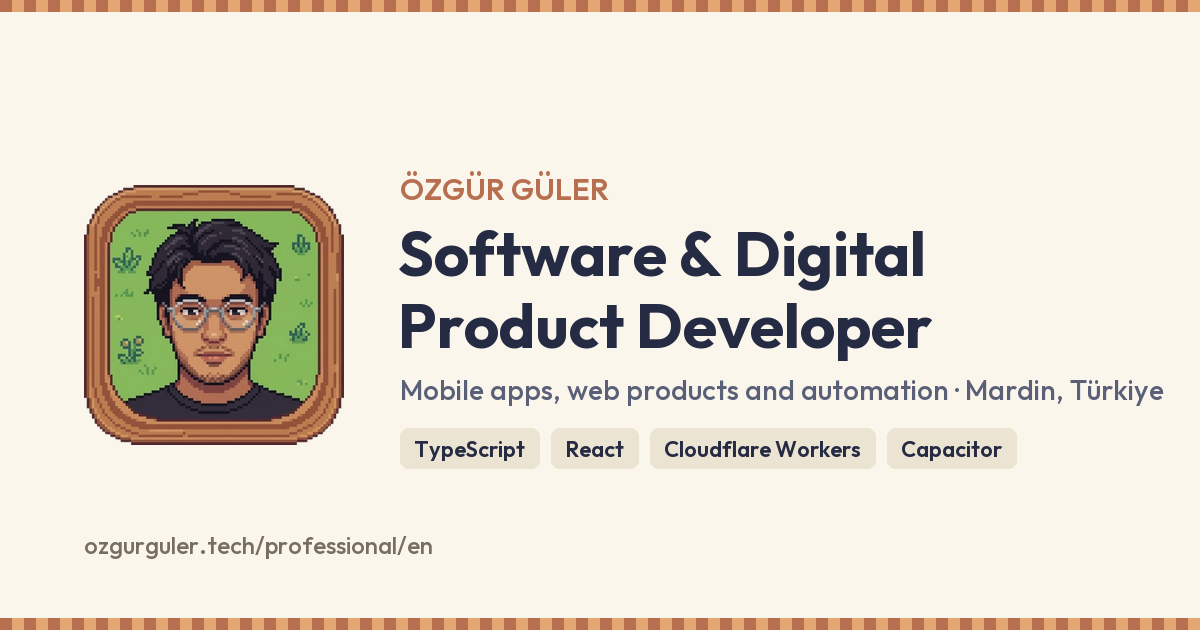
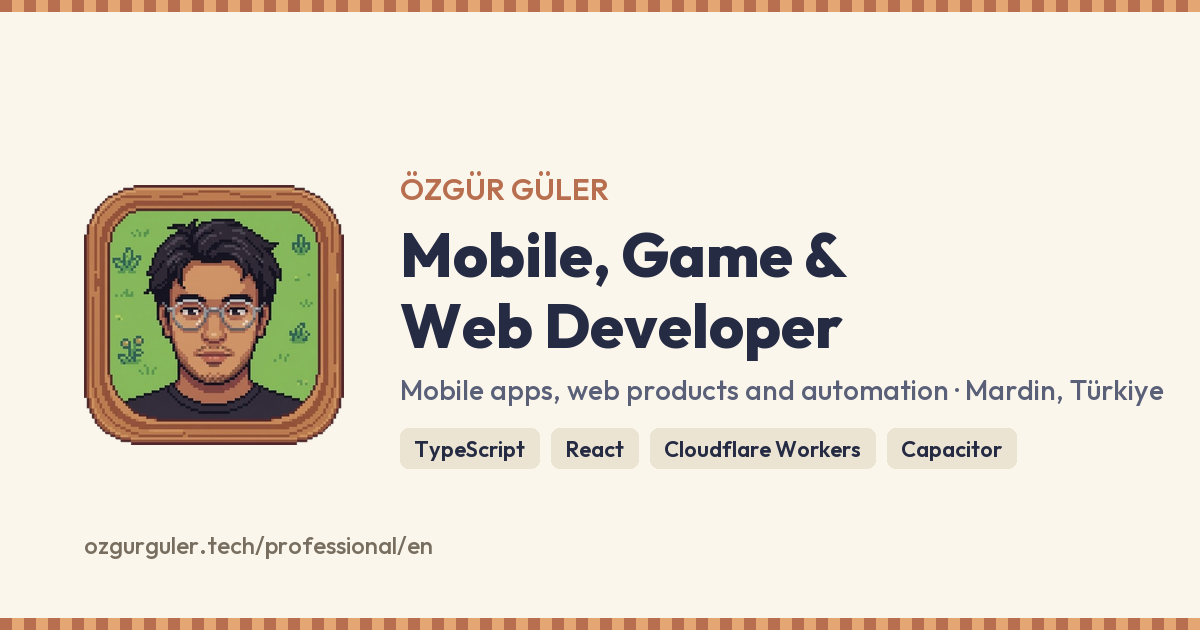
Unvan: Mobil, Oyun ve Web Geliştirici
"Yazılım & Dijital Ürün Geliştirici" geniş ama bulanıktı; yeni unvan iki
gerçek ayağı da adıyla söylüyor ve ikisinin de arkasında yayında iş var.
Yapay zekâ ve sosyal medya bilerek dışarıda: ilki API kullanımı, ikincisi
yazılımcı unvanını sulandırıyor; ikisi de gövdede kendi bölümlerinde duruyor.

Unvan tek yerden (PROFILE.role) geldiği için kahraman satırı, sekme başlığı,
JSON-LD jobTitle ve paylaşım görseli alt metni birlikte değişti. Paylaşım
görsellerindeki yazı da yeniden çizildi; bunu yapan betik scripts/og_title.py
olarak eklendi (sitenin kendi Outfit dosyasını kullanıyor).

Özet cümlelerine "oyun" eklendi: Dönerci bir oyun ama hiçbirinde geçmiyordu.

Changed region(s): [[0.3083, 0.3619, 0.7708, 0.573]]

diff --git a/professional/data.ts b/professional/data.ts
@@ -40,15 +40,15 @@ export const PROFILE = {
     linkedin: 'https://www.linkedin.com/in/%C3%B6zg%C3%BCr-g-133a33219/',
     x: 'https://x.com/ozguramdin',
   },
-  role: { tr: 'Yazılım & Dijital Ürün Geliştirici', en: 'Software & Digital Product Developer' } as L,
+  role: { tr: 'Mobil, Oyun ve Web Geliştirici', en: 'Mobile, Game & Web Developer' } as L,
   location: { tr: 'Mardin', en: 'Mardin, Türkiye' } as L,
   intro: {
     tr: [
-      'Mobil uygulama, web ürünü ve otomasyon geliştiriyorum. Coğrafist, Dönerci ve Print Fast App Store ile Google Play’de; WTF Yapay Zekâ’nın Android uygulaması 50.000’den fazla indirildi.',
+      'Mobil uygulama, oyun, web ürünü ve otomasyon geliştiriyorum. Coğrafist, Dönerci ve Print Fast App Store ile Google Play’de; WTF Yapay Zekâ’nın Android uygulaması 50.000’den fazla indirildi.',
       'Bu projelerin çoğunda tek geliştiriciyim. Arayüz, backend, ödeme entegrasyonu ve mağaza yayını bende.',
     ],
     en: [
-      'I build mobile apps, web products and automations. Coğrafist, Dönerci and Print Fast are on the App Store and Google Play, and the WTF Yapay Zekâ Android app has passed 50,000 downloads.',
+      'I build mobile apps, games, web products and automations. Coğrafist, Dönerci and Print Fast are on the App Store and Google Play, and the WTF Yapay Zekâ Android app has passed 50,000 downloads.',
       'On most of these I’m the only developer, so the interface, backend, payments and store releases are all mine.',
     ],
   } as Record<Lang, string[]>,
@@ -643,8 +643,8 @@ export const metaFor = (lang: Lang, slug: string | null): PageMeta => {
     title: `Özgür Güler | ${PROFILE.role[lang]}`,
     description:
       lang === 'en'
-        ? 'Mobile apps, web products and automations. Three apps on the App Store and Google Play, services running on Cloudflare Workers, and open-source projects.'
-        : 'Mobil uygulama, web ürünü ve otomasyon. App Store ve Google Play’de üç uygulama, Cloudflare Workers üzerinde çalışan servisler ve açık kaynak projeler.',
+        ? 'Mobile apps, games, web products and automations. Three apps on the App Store and Google Play, services running on Cloudflare Workers, and open-source projects.'
+        : 'Mobil uygulama, oyun, web ürünü ve otomasyon. App Store ve Google Play’de üç uygulama, Cloudflare Workers üzerinde çalışan servisler ve açık kaynak projeler.',
     url: `${SITE_URL}${proBase(lang)}`,
     image,
     lang,

diff --git a/scripts/og_title.py b/scripts/og_title.py
@@ -1,0 +1,64 @@
+"""Paylaşım görsellerindeki (public/pro/img/og-professional*.png) unvan satırını yeniden yazar.
+
+Görsellerin kendisi elle hazırlandı; unvan değiştiğinde tamamını yeniden üretmek yerine
+yalnızca başlık bloğu temizlenip aynı yazı tipiyle yeniden çiziliyor. Yazı tipi sitenin
+kendi dosyası: public/pro/fonts/outfit-tr.woff2 (değişken, wght ekseni 500-800).
+
+Gerekli: pillow, fonttools, brotli.
+Çalıştır: python scripts/og_title.py
+"""
+
+from __future__ import annotations
+
+import io
+from pathlib import Path
+
+from fontTools.ttLib import TTFont
+from PIL import Image, ImageDraw, ImageFont
+
+ROOT = Path(__file__).resolve().parents[1]
+IMG = ROOT / 'public' / 'pro' / 'img'
+WOFF2 = ROOT / 'public' / 'pro' / 'fonts' / 'outfit-tr.woff2'
+
+BG = (251, 246, 236)       # kağıt rengi
+INK = (38, 43, 68)         # başlık rengi (--text)
+SIZE = 61                  # 'Y' büyük harf yüksekliği 44 piksel olacak şekilde ölçüldü
+WEIGHT = 800
+CLEAR = (385, 222, 1180, 372)  # temizlenecek başlık bloğu
+CAP_TOP = (232, 303)       # iki satırın büyük harf üst kenarı
+
+JOBS = [
+    ('og-professional.png', 400, ('Mobil, Oyun ve', 'Web Geliştirici')),
+    ('og-professional-en.png', 400, ('Mobile, Game &', 'Web Developer')),
+]
+
+
+def outfit() -> ImageFont.FreeTypeFont:
+    """woff2'yi belleğe açıp kalın kesimi döndürür."""
+    f = TTFont(WOFF2)
+    f.flavor = None
+    buf = io.BytesIO()
+    f.save(buf)
+    buf.seek(0)
+    font = ImageFont.truetype(buf, SIZE)
+    font.set_variation_by_axes([WEIGHT])
+    return font
+
+
+def main() -> None:
+    font = outfit()
+    for name, left, lines in JOBS:
+        path = IMG / name
+        im = Image.open(path).convert('RGB')
+        d = ImageDraw.Draw(im)
+        d.rectangle(CLEAR, fill=BG)
+        for text, cap_top in zip(lines, CAP_TOP):
+            # getbbox, çizim başlangıcına göre mürekkebin nerede başladığını söyler
+            bx, by = font.getbbox(text)[:2]
+            d.text((left - bx, cap_top - by), text, font=font, fill=INK)
+        im.save(path, optimize=True)
+        print(name, '|', ' / '.join(lines), path.stat().st_size, 'bayt')
+
+
+if __name__ == '__main__':
+    main()
